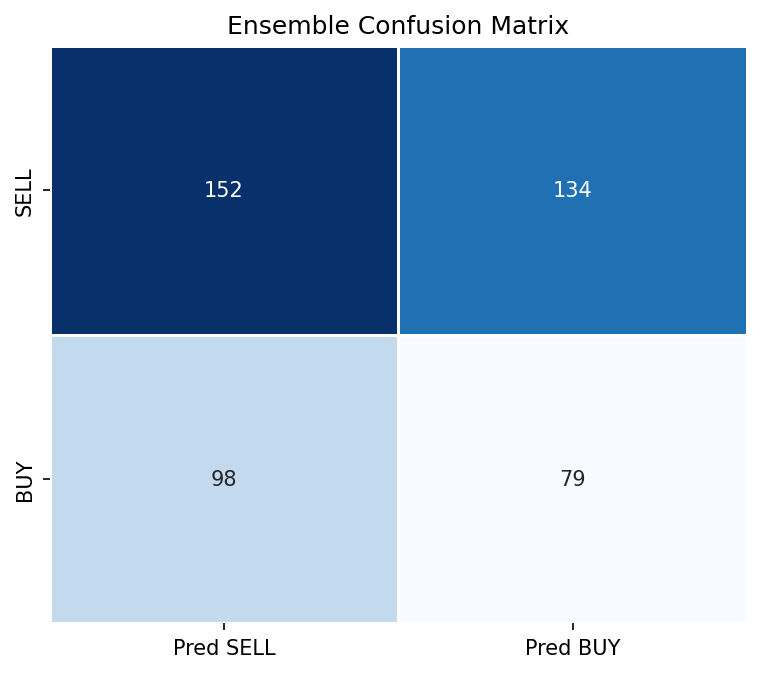
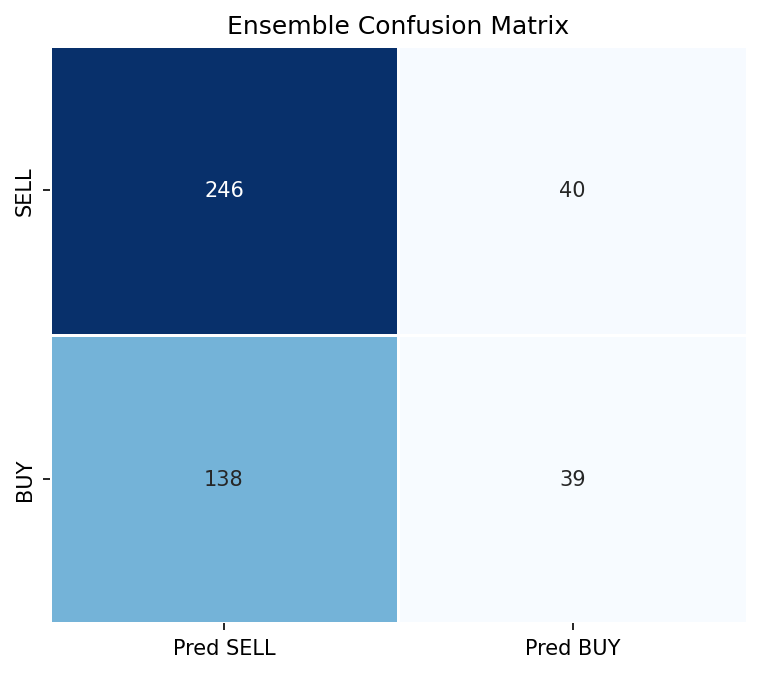
backtest score error fixed

diff --git a/CATI/app/views.py b/CATI/app/views.py
@@ -126,9 +126,12 @@ def home_view(request):
             context['ensemble_accuracy'] = dict(metrics_df.set_index('Metric')['Value']).get('Accuracy')
             context['ensemble_balanced_accuracy'] = dict(metrics_df.set_index('Metric')['Value']).get('Balanced Accuracy')
             
-            # Backtest Metrics
-            backtest_metrics_df = pd.read_excel(backtest_path, sheet_name='Backtest_Metrics')
-            context['backtest_metrics'] = dict(zip(backtest_metrics_df['Metric'], backtest_metrics_df['Value']))
+            # Backtest Metrics (stored in same Metrics sheet)
+            all_metrics = dict(zip(metrics_df['Metric'], metrics_df['Value']))
+            context['backtest_metrics'] = {
+                k: v for k, v in all_metrics.items()
+                if k not in ('Accuracy', 'Balanced Accuracy')
+            }
         except Exception as e:
             messages.error(request, f"Error loading backtest data: {str(e)}")
     
@@ -141,7 +144,7 @@ def home_view(request):
                 {
                     'date': row['Forecast_Date'].strftime('%Y-%m-%d'),
                     'signal': row['Signal'],
-                    'score': round(row['Score'], 4)
+                    'score': round(row['Score'], 4) if 'Score' in df_forecast.columns else 0.0
                 } for _, row in df_forecast.iterrows()
             ]
             # Overall Summary
